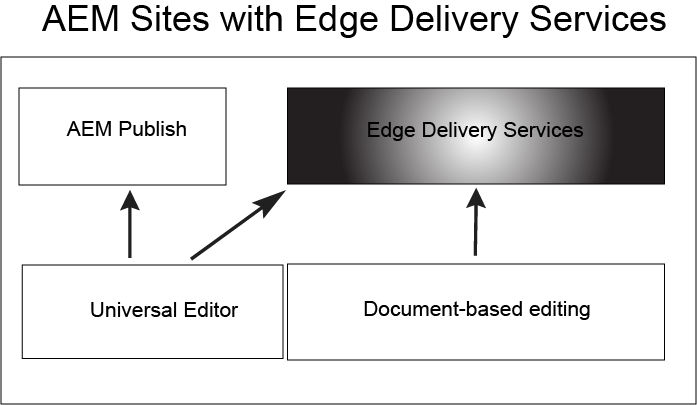
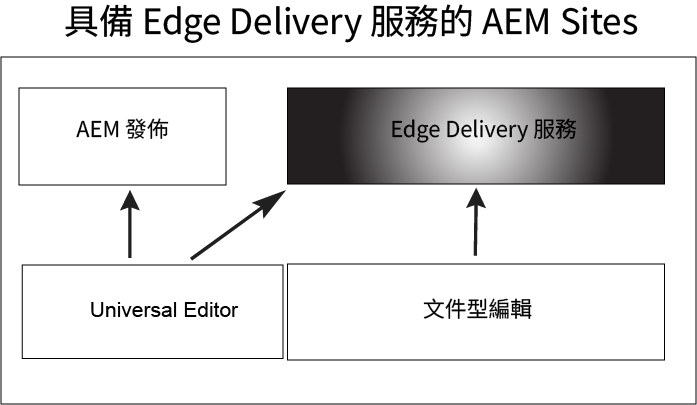
Updated by task 'AUTO_HANDOFF_PRIORITY_1702638845603'  Changes for core/source commit https://git.corp.adobe.com/AdobeDocs/experience-manager-cloud-service.en/commit/0d03e3794acc6e08487a9bc3c0f09f11432e2157

diff --git a/help/edge/using.md b/help/edge/using.md
@@ -1,52 +1,52 @@
 ---
 title: 使用 Edge Delivery Services
-description: 瞭解如何將AEMas a Cloud Service與Edge Delivery Services搭配使用。
+description: 了解如何搭配使用 AEM as a Cloud Service 和 Edge Delivery Services。
 feature: Edge Delivery Services
 exl-id: 41999302-b4c9-4f5a-b659-6e7398a3c4f4
 source-git-commit: 5b24b984ea738096ef67b72a3d96e9b5931d2200
-workflow-type: tm+mt
+workflow-type: ht
 source-wordcount: '385'
-ht-degree: 15%
+ht-degree: 100%
 
 ---
 
 
 # 使用 Edge Delivery Services {#usingedge}
 
-透過Edge Delivery Services，您可以建立快速開發環境，讓作者可以快速更新和發佈內容，並快速啟動新網站。 為此，您可以在同一網站上使用多個內容來源，並且無論您選擇何種來源，都可採用無縫且簡化的方式來發佈。因此，從編輯到在網路上查看內容只需幾秒鐘。
+Edge Delivery Services 能讓您建立快速開發環境，作者可以在其中快速更新和發佈內容，並快速啟動新網站。為此，您可以在同一網站上使用多個內容來源，並且無論您選擇何種來源，都可採用無縫且簡化的方式來發佈。因此，從編輯到在網路上查看內容只需幾秒鐘。
 
-Edge Delivery Services與內容來源是分離的，可擷取不同內容來源的內容。
+Edge Delivery Services 與內容來源分離，可以從不同的內容來源取得內容。
 
-![Edge Delivery的內容來源](assets/content-sources.png)
+![Edge Delivery 的內容來源](assets/content-sources.png)
 
-從多個內容來源擷取可為使用者提供最大彈性。 Adobe提供指引，協助您選擇最適合專案的內容來源。
+從多個內容來源擷取內容，為使用者提供出色的靈活性。Adobe 提供指引來協助您選擇最適合自身專案的內容來源。
 
-在某些情況下，內容來源是預先定義或以其他方式不靈活(例如專案無法使用Sharepoint或Google Drive)。 但在許多情況下，工具並非預先設定，且工具的選擇並非非黑即白。
+在某些情況下，內容來源是預先定義或缺乏靈活性 (例如，專案無法使用 Sharepoint 或 Google 雲端硬碟)。但在很多情況下，工具並不是預先決定的，且工具的選擇也沒有明確的優劣之分。
 
-Adobe的指導原則是簡單化。 從檔案式撰寫開始，視需要增加複雜性。 如需工具變更，AEMEdge Delivery Services整合涵蓋內容移轉。
+Adobe 的指引原則很簡單。從文件型製作開始，並在需要時增加複雜性。如果需要變更工具，AEM 的 Edge Delivery Services 整合涵蓋內容移轉。
 
 ![內容來源彈性](assets/content-source-flexiblity.png)
 
-## 編寫 {#authoring-edge}
+## 製作 {#authoring-edge}
 
-透過Edge Delivery Services，製作變得簡單、快速且靈活。 您可以選擇透過通用編輯器在AEM中使用檔案式撰寫或撰寫。
+透過 Edge Delivery Services，製作變得簡單、快速且靈活。您可以選擇使用文件型製作或 AEM 中的 Universal Editor 進行製作。
 
-請參閱檔案 [為Edge Delivery Services製作內容](authoring.md) 以取得詳細資訊。
+若需更多資訊，請參閱文件「[為 Edge Delivery Services 製作內容](authoring.md)」。
 
 ## 發佈 {#publishing-edge}
 
-使用Edge Delivery Services時，無論內容來源為何，都能順暢發佈內容。
+使用 Edge Delivery Services 時，無論內容來源為何，都可以流暢地發佈內容。
 
-請參閱檔案 [發佈Edge Delivery Services內容](publishing.md) 以取得詳細資訊。
+若需更多資訊，請參閱文件「[為 Edge Delivery Services 發佈內容](publishing.md)」。
 
 ## 開發 {#developing-edge}
 
-Edge Delivery Services是以區塊的概念為基礎。 AEM隨附預先定義的區塊完整程式庫，可擴充以符合您的專案需求。 Edge Delivery Services專案的程式碼是在GitHub中管理。
+Edge Delivery Services 以區塊概念為基礎。AEM 包含完整的預先定義區塊資料庫，您可以擴充該資料庫來專案需求。Edge Delivery Services 專案的程式碼是在 GitHub 中管理。
 
-請參閱檔案 [針對Edge Delivery Services開發](developing.md) 以取得詳細資訊。
+若需更多資訊，請參閱文件「[為 Edge Delivery Services 進行開發](developing.md)」。
 
-## 現有AEM專案 {#existing-projects}
+## 現有 AEM 專案 {#existing-projects}
 
-您不需要等待新的AEM專案就能從Edge Delivery Services中獲益。 Edge Delivery Services可以整合到您現有的AEM專案中，因此您可以立即運用其效能提升。
+您不需要等待新的 AEM 專案，即可取得 Edge Delivery Services 帶來的好處。Edge Delivery Services 可以整合到現有的 AEM 專案中，讓您可立即利用專案提升的效能。
 
-請參閱檔案 [將Edge Delivery Services用於現有AEM專案](existing-projects.md) 以取得詳細資訊。
+若需更多資訊，請參閱文件「[在現有 AEM 專案中使用 Edge Delivery Services](existing-projects.md)」。

diff --git a/help/release-notes/home.md b/help/release-notes/home.md
@@ -3,9 +3,9 @@ title: Adobe Experience Manager (AEM) as a Cloud Service 的發行說明。
 description: Adobe Experience Manager (AEM) as a Cloud Service 的發行說明。
 exl-id: 05b9e51f-467e-4c8e-baea-b1cf832597cd
 source-git-commit: 626f38141bafba8f5463c8793d52ea15448ed433
-workflow-type: tm+mt
+workflow-type: ht
 source-wordcount: '599'
-ht-degree: 99%
+ht-degree: 100%
 
 ---
 
